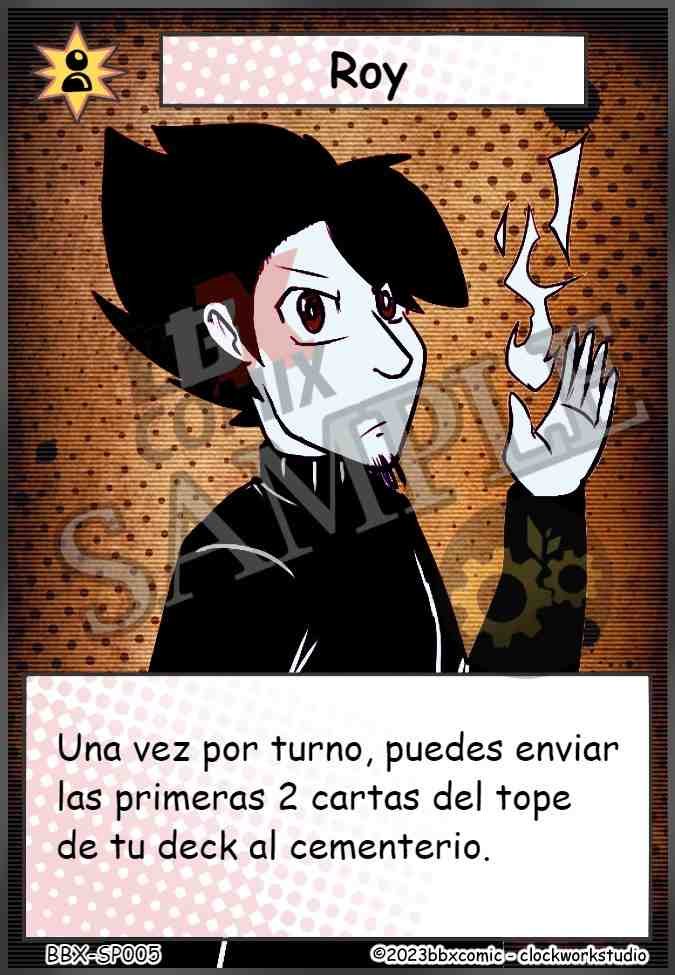
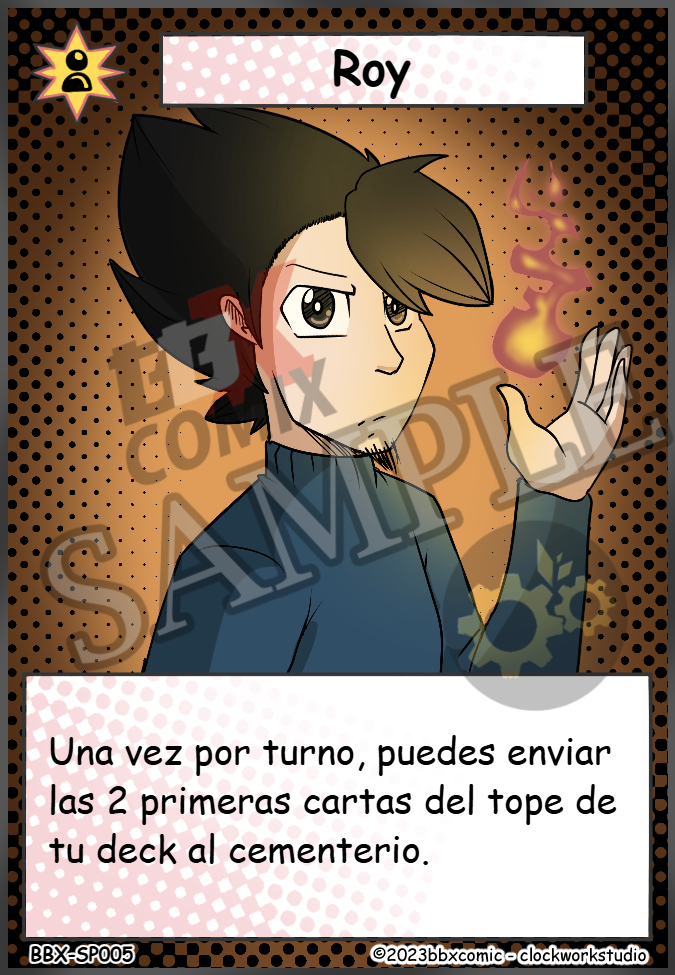
Actualización cartas 370-406

diff --git a/assets/script.js b/assets/script.js
@@ -22,10 +22,10 @@ if (contenedor && loader) {
     scrollLoader.textContent = "Cargando más cartas...";
     document.body.appendChild(scrollLoader);
   }
-
+// Cambiar número a medida se agregan más cartas
   const carpeta = "./assets/images/listado-cartas-skillblast/";
   const nombresImagenes = Array.from(
-    { length: 369 },
+    { length: 406 },
     (_, i) => "BBX SP" + String(i + 1).padStart(3, '0')
   );
 

diff --git a/cartas.html b/cartas.html
@@ -50,7 +50,7 @@
         </h1>
         <p class="hero-subtitle">
           <span class="subtitle-box">
-            Actualmente el juego cuenta con 369 cartas disponibles para coleccionar.
+            Actualmente el juego cuenta con 406 cartas disponibles para coleccionar.
           </span>
         </p>
         <div class="hero-subtitle">
